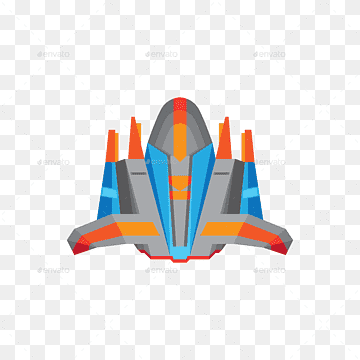
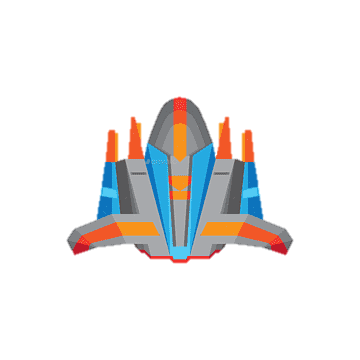
Fix background to the player sprite and change position is not hardcoded anymore

diff --git a/MiJuegoUnoLaSalle2022/Game1.cs b/MiJuegoUnoLaSalle2022/Game1.cs
@@ -13,6 +13,9 @@ namespace MiJuegoUnoLaSalle2022
         byte green;
         byte blue;
 
+        int positionX;
+        int positionY;
+
         Texture2D spaceShip;
 
         public Game1()
@@ -32,6 +35,10 @@ namespace MiJuegoUnoLaSalle2022
             red = 100;
             green = 20;
             blue = 250;
+
+            positionX = 300;
+            positionY = 250;
+
             base.Initialize();
         }
 
@@ -63,11 +70,12 @@ namespace MiJuegoUnoLaSalle2022
             // TODO: Add your drawing code here
             _spriteBatch.Begin();
 
-            _spriteBatch.Draw(spaceShip, new Vector2(300, 250), Color.White);
+            _spriteBatch.Draw(spaceShip, new Vector2(positionX, positionY), Color.White);
 
             _spriteBatch.End();
 
             base.Draw(gameTime);
         }
+
     }
 }
